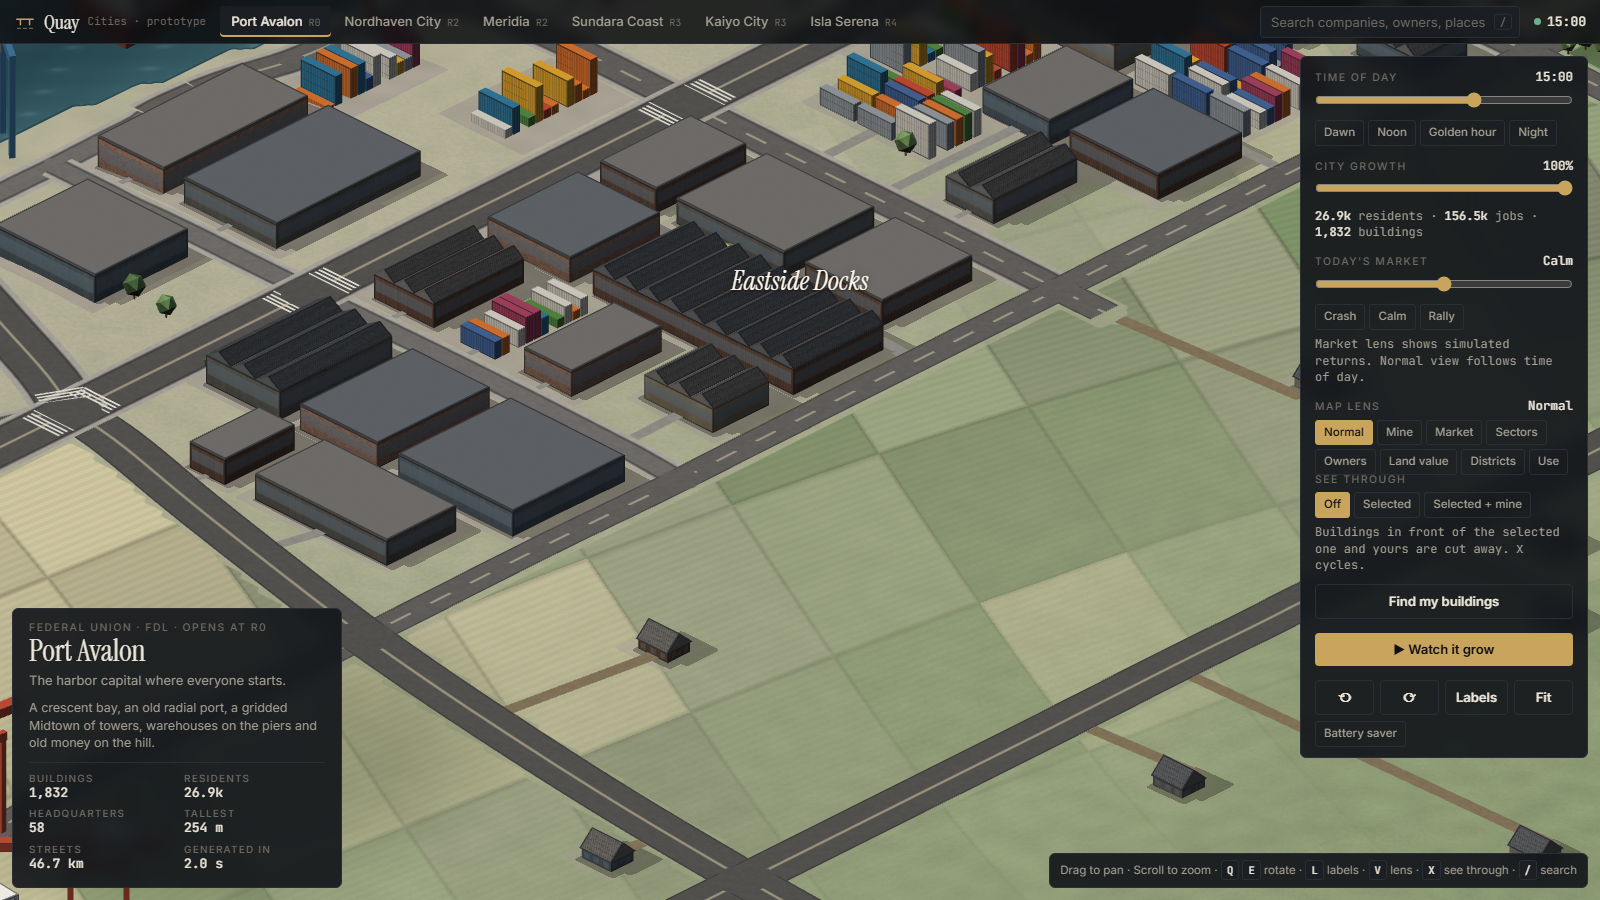
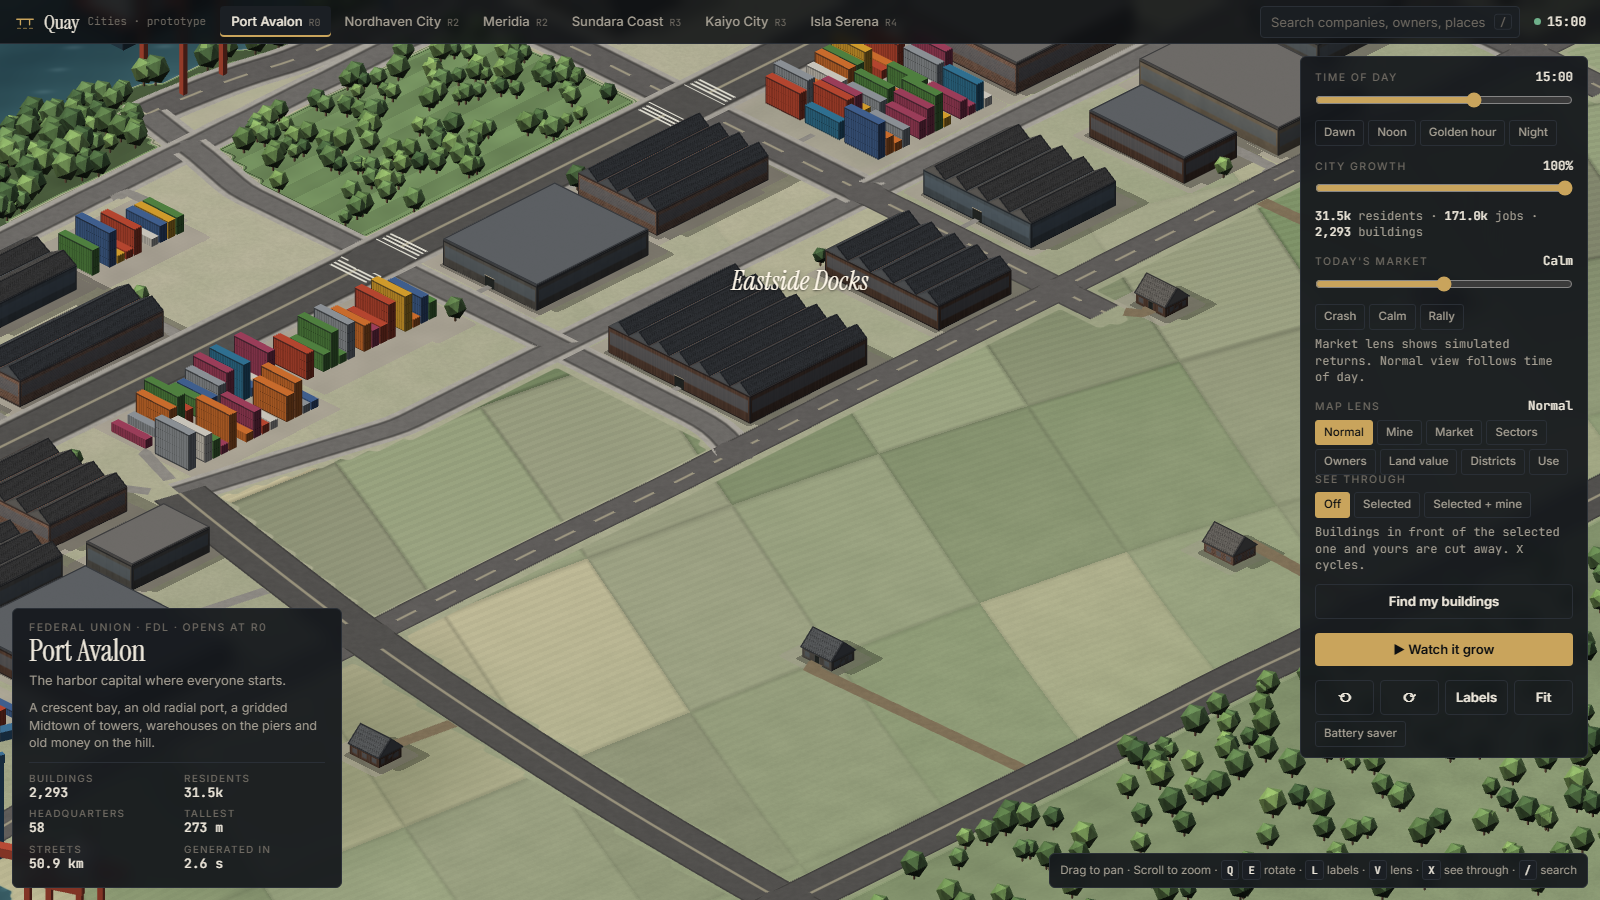
feat(cities): authored Avalon architectural language

diff --git a/prototypes/cities/src/shaders.js b/prototypes/cities/src/shaders.js
@@ -13,6 +13,7 @@ uniform vec3 uInk;
 uniform vec3 uHazeColor;
 uniform float uHaze0;
 uniform float uHaze1;
+uniform float uDetail;
 float h11(float p) { p = fract(p * 0.1031); p *= p + 33.33; p *= p + p; return fract(p); }
 float h31(vec3 p3) { p3 = fract(p3 * 0.1031); p3 += dot(p3, p3.zyx + 31.32); return fract((p3.x + p3.y) * p3.z); }
 // smooth value noise on a lattice, range [0, 1]
@@ -64,9 +65,11 @@ float facadeKind(vec3 c) {
 }
 // facade colour before lighting; p = (metres along the facade, metres above the ground)
 vec3 wallMat(vec3 c, vec2 p, float fh, float bid, float pxm) {
+  if (uDetail <= 0.01) return c;
   float k = facadeKind(c);
   float hb = h11(fract(bid * 0.6180339) + 0.21);
   float far = smoothstep(0.35, 0.7, pxm);
+  vec3 res = c;
   if (k < 0.5) {
     // running bond: 0.8 m bricks in 0.4 m courses, every other course offset, a few darker bricks
     vec2 cell = vec2(0.8, 0.4);
@@ -74,44 +77,44 @@ vec3 wallMat(vec3 c, vec2 p, float fh, float bid, float pxm) {
     float v = h31(vec3(floor(pp / cell), hb * 9.0 + 2.0));
     vec3 bc = c * (0.84 + 0.26 * v) * mix(1.0, 0.7, step(0.94, v));
     float jt = mix(max(lineX(p.y, cell.y, 0.03, pxm), lineX(pp.x, cell.x, 0.03, pxm)), 0.22, far);
-    return mix(bc, mix(c, vec3(0.86, 0.82, 0.74), 0.7), jt);
-  }
-  if (k < 1.5) {
+    res = mix(bc, mix(c, vec3(0.86, 0.82, 0.74), 0.7), jt);
+  } else if (k < 1.5) {
     // ashlar: 0.6 m courses with random block joints
     float row = floor(p.y / 0.6);
     vec2 pp = vec2(p.x + 1.3 * h31(vec3(row, hb * 4.0, 3.0)), p.y);
     float v = h31(vec3(floor(pp / vec2(1.3, 0.6)), hb * 5.0));
     float jt = mix(max(lineX(p.y, 0.6, 0.02, pxm), lineX(pp.x, 1.3, 0.02, pxm)), 0.2, far);
-    return mix(c * (0.93 + 0.12 * v), c * 0.78, jt * 0.8);
-  }
-  if (k < 2.5) {
+    res = mix(c * (0.93 + 0.12 * v), c * 0.78, jt * 0.8);
+  } else if (k < 2.5) {
     // cladding panels: joints every 2.4 m and at each floor, a little tone per panel and a faint speckle
     vec2 cell = vec2(2.4, max(fh, 2.0));
     float v = h31(vec3(floor(p / cell), hb * 7.0));
     float jt = mix(max(lineX(p.x, 2.4, 0.02, pxm), lineX(p.y, cell.y, 0.025, pxm)), 0.15, far);
     float sp = 0.5;
     if (far < 0.999) sp = mix(vnoise(p * 1.3 + hb * 13.0), 0.5, far);
-    return mix(c * (0.96 + 0.08 * v), c * 0.8, jt * 0.6) * (0.96 + 0.08 * sp);
-  }
-  if (k < 3.5) {
+    res = mix(c * (0.96 + 0.08 * v), c * 0.8, jt * 0.6) * (0.96 + 0.08 * sp);
+  } else if (k < 3.5) {
     // painted render: soft grain and streaks of weathering (skipped when the pixel is too big to show them)
     float g1 = 0.5, g2 = 0.5;
     if (far < 0.999) {
       g1 = mix(vnoise(p * 1.4 + hb * 17.0), 0.5, far);
       g2 = mix(vnoise(vec2(p.x * 0.35, p.y * 0.09) + hb * 5.0), 0.5, far);
     }
-    return c * (0.95 + 0.06 * g1) * (0.9 + 0.14 * g2);
+    res = c * (0.95 + 0.06 * g1) * (0.9 + 0.14 * g2);
+  } else {
+    // timber: vertical boards 0.22 m wide, seams and a little tone per board
+    float bd = floor(p.x / 0.22);
+    float v = h31(vec3(bd, hb * 7.0, 5.0));
+    float seam = mix(lineX(p.x, 0.22, 0.012, pxm), 0.1, far);
+    res = mix(c * (0.9 + 0.18 * v), c * 0.6, seam * 0.7);
   }
-  // timber: vertical boards 0.22 m wide, seams and a little tone per board
-  float bd = floor(p.x / 0.22);
-  float v = h31(vec3(bd, hb * 7.0, 5.0));
-  float seam = mix(lineX(p.x, 0.22, 0.012, pxm), 0.1, far);
-  return mix(c * (0.9 + 0.18 * v), c * 0.6, seam * 0.7);
+  return mix(c, res, uDetail);
 }
 // tiled or slated slope; p = metres (across, up the slope); ridge is 1 on the ridge cap
 vec3 roofTiles(vec3 c, vec2 p, float pxm, float ridge, float bid) {
+  if (uDetail <= 0.01) return c;
   float L = lumaOf(c);
-  if (L > 0.8) return c * (0.97 + 0.03 * vnoise(p * 3.0)); // snow and white roofs stay smooth
+  if (L > 0.8) return c * (0.97 + 0.03 * vnoise(p * 3.0) * uDetail); // snow and white roofs stay smooth
   float hb = h11(fract(bid * 0.6180339) + 0.21);
   bool slate = c.b > c.r - 0.02 || max(c.r, max(c.g, c.b)) - min(c.r, min(c.g, c.b)) < 0.12;
   vec2 cell = slate ? vec2(0.5, 0.25) : vec2(0.62, 0.36);
@@ -124,11 +127,12 @@ vec3 roofTiles(vec3 c, vec2 p, float pxm, float ridge, float bid) {
   vec3 tc = c * (0.9 + 0.16 * v) * course;
   float jn = mix(max(lineX(p.y, cell.y, 0.02, pxm), lineX(pp.x, cell.x, 0.02, pxm)), 0.0, far);
   tc *= 1.0 - 0.3 * jn * (slate ? 1.0 : 0.5);
-  return mix(tc, c * 0.7, ridge * (1.0 - far));
+  vec3 res = mix(tc, c * 0.7, ridge * (1.0 - far));
+  return mix(c, res, uDetail);
 }
 // flat roof: gravel grain, a lighter parapet cap and the shadow it throws inside; m = local xz, sz = size xz
 vec3 roofTop(vec3 c, vec2 m, vec2 sz, float pxm) {
-  if (lumaOf(c) > 0.8) return c;
+  if (uDetail <= 0.01 || lumaOf(c) > 0.8) return c;
   float ed = min(sz.x * 0.5 - abs(m.x), sz.y * 0.5 - abs(m.y));
   float gravel = 0.5;
   if (pxm < 0.6) gravel = mix(vnoise(m * 4.0) * 0.6 + vnoise(m * 11.0) * 0.4, 0.5, smoothstep(0.25, 0.6, pxm));
@@ -136,7 +140,8 @@ vec3 roofTop(vec3 c, vec2 m, vec2 sz, float pxm) {
   float rim = 1.0 - smoothstep(0.2 - pxm, 0.2 + pxm, ed);
   g = mix(g, g * 1.12 + 0.02, rim);
   float sh = (1.0 - smoothstep(0.2, 1.4, ed)) * (1.0 - rim) * (1.0 - smoothstep(0.25, 0.6, pxm));
-  return g * (1.0 - 0.14 * sh);
+  vec3 res = g * (1.0 - 0.14 * sh);
+  return mix(c, res, uDetail);
 }
 `;
 
@@ -519,10 +524,10 @@ void main() {
   float edgeIn = smoothstep(uHalf - 500.0, uHalf, max(abs(vXZ.x), abs(vXZ.y)));
   // MATERIALS: metres per pixel on the ground; grass grain and mowing stripes fade out before they would shimmer
   float pxG = max(fwidth(vXZ.x), fwidth(vXZ.y));
-  float grassF = 1.0 - smoothstep(0.25, 0.7, pxG);
-  float stripeF = 1.0 - smoothstep(0.5, 1.2, pxG);
+  float grassF = (1.0 - smoothstep(0.25, 0.7, pxG)) * uDetail;
+  float stripeF = (1.0 - smoothstep(0.5, 1.2, pxG)) * uDetail;
   float grass = 0.5;
-  if (grassF > 0.001) grass = vnoise(vXZ * 1.3) * 0.6 + vnoise(vXZ * 3.7 + 7.0) * 0.4;
+  if (uDetail > 0.01 && grassF > 0.001) grass = vnoise(vXZ * 1.3) * 0.6 + vnoise(vXZ * 3.7 + 7.0) * 0.4;
   float mow = step(0.0, sin(vXZ.x * 0.5236));
   // bare land, lawns and parks; urban blocks are meadow until the city reaches them
   float blockO = water > 0.5 ? 0.0 : depth;
@@ -749,7 +754,8 @@ void main() {
   if (dirt) c = vec3(0.5, 0.44, 0.34);
   if (drive) c = mix(cRoad0, vec3(0.68, 0.66, 0.62), 0.5);
   // asphalt grain from world-space noise, so it does not swim with the camera
-  float grain = 0.95 + 0.06 * vnoise(vXZ * 0.9) + 0.03 * vnoise(vXZ * 3.7);
+  float grain = 1.0;
+  if (uDetail > 0.01) grain = mix(1.0, 0.95 + 0.06 * vnoise(vXZ * 0.9) + 0.03 * vnoise(vXZ * 3.7), uDetail);
   if (paint) {
     c = vec3(0.86, 0.85, 0.8);
   } else if (junction) {

diff --git a/prototypes/cities/src/archetypes.js b/prototypes/cities/src/archetypes.js
@@ -236,6 +236,7 @@ export function buildArchetype(type, L, ctx) {
     default:
       b.box(0, 0, 0, w, H, dp, fac, S.PUNCH);
   }
+  addEntrance(b, rec, front);
 
   const floors = Math.max(1, Math.round(rec.h / 3.3));
   rec.floors = floors;
@@ -245,6 +246,43 @@ export function buildArchetype(type, L, ctx) {
   else rec.jobs = Math.round(area / 60);
   if (type === 'midrise' || type === 'micro') rec.jobs = Math.round(area / 120);
   return rec;
+}
+
+function addEntrance(b, rec, front) {
+  const depthFactor = {
+    row: 1, house: 0.8, gabled: 0.92, midrise: 0.97,
+    loft: 0.97, warehouse: 0.96,
+  }[rec.type];
+  if (depthFactor === undefined) return;
+  const width = rec.type === 'warehouse' ? 3.2 : Math.min(1.5, rec.w * 0.22);
+  const height = rec.type === 'warehouse' ? 3.2 : Math.min(2.5, rec.h * 0.65);
+  const z = front * (rec.dp * depthFactor * 0.5 + 0.025);
+  b.box(0, 0.05, z, width, height, 0.06, 0x343936, S.PLAIN);
+  b.box(0, height + 0.05, z, width + 0.3, 0.18, 0.18, 0xb9ab90, S.PLAIN);
+}
+
+/**
+ * Attach a simple dark sign panel and slim frame above the entrance for selected lease-demo units.
+ * Flag bit 8 marks the sign/frame parts so Stage 1 renovation can warm the accent without regenerating the city.
+ */
+export function addShopFrontage(parts, rec) {
+  const depthFactor = {
+    row: 1, house: 0.8, gabled: 0.92, midrise: 0.97,
+    loft: 0.97, warehouse: 0.96, strip: 0.9, micro: 0.95, palazzo: 1,
+  }[rec.type] ?? 0.97;
+  const front = rec.front ?? -1;
+  const b = new B({ parts }, rec);
+  b.flags = 8;
+  const panelW = Math.min(Math.max(2.6, rec.w * 0.52), 5.6);
+  const panelH = 0.62;
+  const doorH = rec.type === 'warehouse' ? 3.2 : Math.min(2.5, rec.h * 0.65);
+  const y = doorH + 0.35;
+  const z = front * (rec.dp * depthFactor * 0.5 + 0.08);
+  // Dark sign panel
+  b.box(0, y, z, panelW, panelH, 0.1, 0x222629, S.PLAIN, 3.3, 3, 0, 0.5);
+  // Slim frame around sign and entrance canopy
+  b.box(0, y + panelH, z + front * 0.02, panelW + 0.24, 0.1, 0.16, 0x7b7263, S.PLAIN, 3.3, 3, 0, 0.6);
+  b.box(0, y - 0.08, z + front * 0.02, panelW + 0.24, 0.08, 0.16, 0x7b7263, S.PLAIN, 3.3, 3, 0, 0.6);
 }
 
 function roofProps(b, R, w, dp, top, P, chance) {

diff --git a/prototypes/cities/src/roadgraph.js b/prototypes/cities/src/roadgraph.js
@@ -440,7 +440,7 @@ export function connectGraph(g, { landAt, isWater }) {
     }
     comps.push({ id, nodes, len: 0, label: -1, edges: [] });
   }
-  g.edges.forEach((e, i) => { const c = comp[e.a]; comps[c].edges.push(i); comps[c].len += polyLen(e.pts); });
+  g.edges.forEach((e, i) => { const c = comp[e.a]; comps[c].edges.push(i); comps[c].len += polyLen(e.pts); if (e.cls >= 4) comps[c].hasArterial = true; });
   for (const c of comps) {
     let longest = null, bl = -1;
     for (const ei of c.edges) { const L = polyLen(g.edges[ei].pts); if (L > bl) { bl = L; longest = g.edges[ei]; } }
@@ -459,7 +459,7 @@ export function connectGraph(g, { landAt, isWater }) {
   let dropped = 0, linked = 0;
   const cs = 100;
   for (const list of byLabel.values()) {
-    list.sort((a, b) => b.len - a.len);
+    list.sort((a, b) => Number(Boolean(b.hasArterial)) - Number(Boolean(a.hasArterial)) || b.len - a.len);
     const mainNodes = list[0].nodes.slice();
     for (const c of list.slice(1)) {
       // the shortest dry straight line from this component to the ones already kept on its landmass
@@ -522,7 +522,9 @@ export function buildRoadGraph(lines, { spacing, isWater, landAt }) {
   stats.linked = cn.stats.linked; stats.droppedComps = cn.stats.dropped;
   g = planarize(cn.edges.map((e) => ({ cls: e.cls, level: e.level, requiredAccess: e.requiredAccess, pts: e.pts })));
   const cFinal = connectGraph({ nodes: g.nodes, edges: g.edges.filter((e) => e.a !== e.b || polyLen(e.pts) >= 45) }, { landAt, isWater });
-  const edges = cFinal.edges;
+  g = planarize(cFinal.edges.map((e) => ({ cls: e.cls, level: e.level, requiredAccess: e.requiredAccess, pts: e.pts })));
+  const cPost = connectGraph({ nodes: g.nodes, edges: g.edges.filter((e) => e.a !== e.b || polyLen(e.pts) >= 45) }, { landAt, isWater });
+  const edges = cPost.edges;
   const deg = new Int32Array(g.nodes.length);
   edges.forEach((e, id) => { e.id = id; deg[e.a]++; deg[e.b]++; });
   stats.nodes = g.nodes.length;

diff --git a/prototypes/cities/src/render.js b/prototypes/cities/src/render.js
@@ -72,7 +72,9 @@ export class CityView {
       uRamp0: { value: col(RAMP[0]) }, uRamp1: { value: col(RAMP[1]) }, uRamp2: { value: col(RAMP[2]) },
       uDistCol: { value: distCol },
       uHazeColor: { value: new THREE.Color(0.83, 0.6, 0.48) }, uHaze0: { value: 1000 }, uHaze1: { value: 4000 },
+      uDetail: { value: 1 },
     };
+    this.qualityTier = 'high';
     this.yaw = Math.PI / 4; this.yawTarget = this.yaw;
     this.target = new THREE.Vector3();
     this.scale = 2; // metres per CSS pixel
@@ -112,14 +114,24 @@ export class CityView {
 
   /** The device pixel ratio the canvas renders at: capped by screen size, and 1 when saving or after a sustained slow frame. */
   applyPixelRatio() {
-    const cap = this.saver || this.dropped ? 1 : window.innerWidth >= 1200 ? PIXEL_CAP_LARGE : 2;
+    const cap = this.saver || this.dropped || this.qualityTier !== 'high' ? 1 : window.innerWidth >= 1200 ? PIXEL_CAP_LARGE : 2;
     this.renderer.setPixelRatio(Math.min(window.devicePixelRatio || 1, cap));
     if (this.w !== undefined) this.resize();
+  }
+
+  /** Set the quality tier ('high' | 'balanced' | 'low'): gates microscopic shader noise and DPR. */
+  setQualityTier(tier) {
+    if (!['high', 'balanced', 'low'].includes(tier)) return;
+    this.qualityTier = tier;
+    this.uniforms.uDetail.value = tier === 'high' ? 1 : tier === 'balanced' ? 0.5 : 0;
+    this.applyPixelRatio();
+    this.dirty = true;
   }
 
   /** The battery saver: pixel ratio 1 and a slower animation. */
   setSaver(on) {
     this.saver = on;
+    this.uniforms.uDetail.value = on ? 0 : this.qualityTier === 'high' ? 1 : this.qualityTier === 'balanced' ? 0.5 : 0;
     this.applyPixelRatio();
     this.animKey = '';
     this.dirty = true;

diff --git a/prototypes/cities/src/gen.js b/prototypes/cities/src/gen.js
@@ -8,7 +8,7 @@ import { Parts, buildArchetype, buildLandmark, buildTree, buildCrane, buildShip,
 import { sampleOutskirts, outskirtsHeight, traceHighways } from './outskirts.js';
 import { buildRoadGraph, labelLand, SegGrid } from './roadgraph.js';
 import { parcelId } from './parcel-id.js';
-import { avalonHeight } from './avalon-art.js';
+import { avalonHeight, preparePersonality } from './avalon-art.js';
 import { resolveEntranceAccess, thresholdOf, DEPTH_FACTOR } from './entrance-access.js';
 import { entranceOf } from './access.js';
 import { eligibleJunctionArm } from './junction-style.js';
@@ -23,7 +23,8 @@ const FRES = 8;  // tensor field resolution
 
 const HALF_PI = Math.PI / 2;
 
-export async function generateCity(P, progress = () => {}) {
+export async function generateCity(P0, progress = () => {}) {
+  const P = preparePersonality(P0);
   const t0 = performance.now();
   const timings = {};
   let tLast = t0;

diff --git a/prototypes/cities/src/avalon-art.js b/prototypes/cities/src/avalon-art.js
@@ -37,7 +37,10 @@ const RECIPES = {
 export function preparePersonality(P) {
   if (P.id !== 'avalon') return P;
   const districts = P.districts.map((d) => (RECIPES[d.id] ? { ...d, ...RECIPES[d.id] } : { ...d }));
-  return { ...P, districts };
+  const centers = P.centers.some(([cx, cy]) => cx === -950 && cy === 150)
+    ? P.centers.map((c) => [...c])
+    : [...P.centers.map((c) => [...c]), [-950, 150, 0.24, 340]];
+  return { ...P, centers, districts };
 }
 
 /**

diff --git a/prototypes/cities/src/citycache.js b/prototypes/cities/src/citycache.js
@@ -4,7 +4,7 @@
 import { cityCacheKey } from './cache-key.js';
 
 /** Bump when the generator's output changes, so stale cities are never read back. */
-export const GEN_VERSION = 'inhabitable-v2-6';
+export const GEN_VERSION = 'inhabitable-v2-11';
 const DB = 'cities-cache';
 const STORE = 'cities';
 
